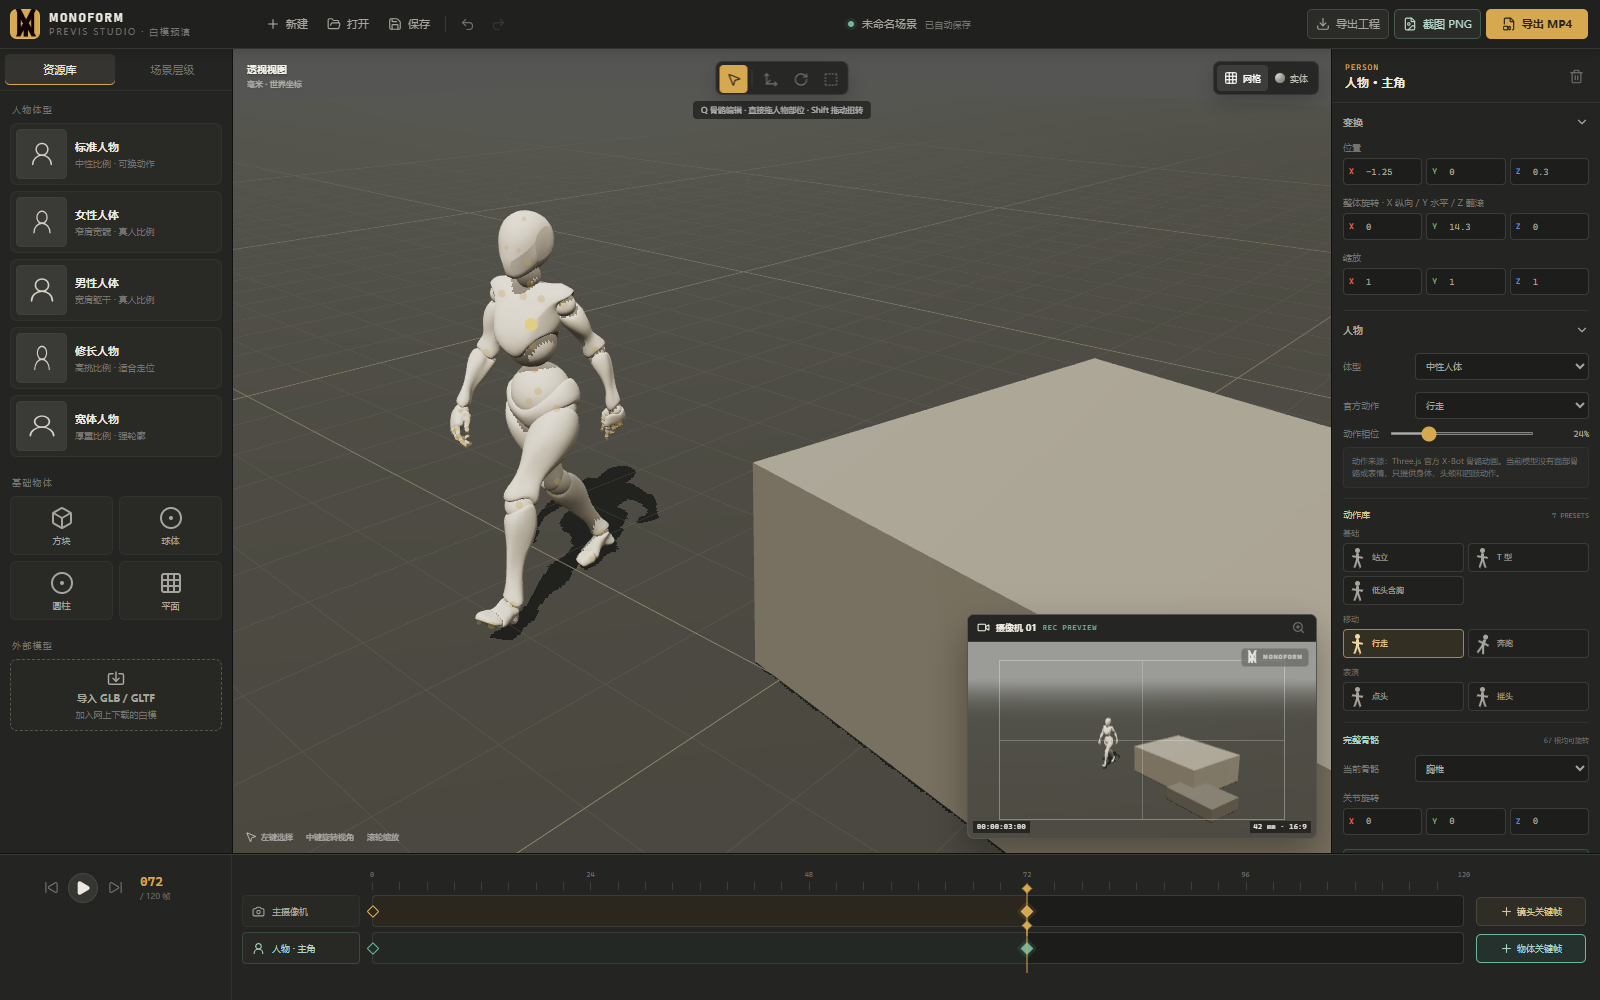
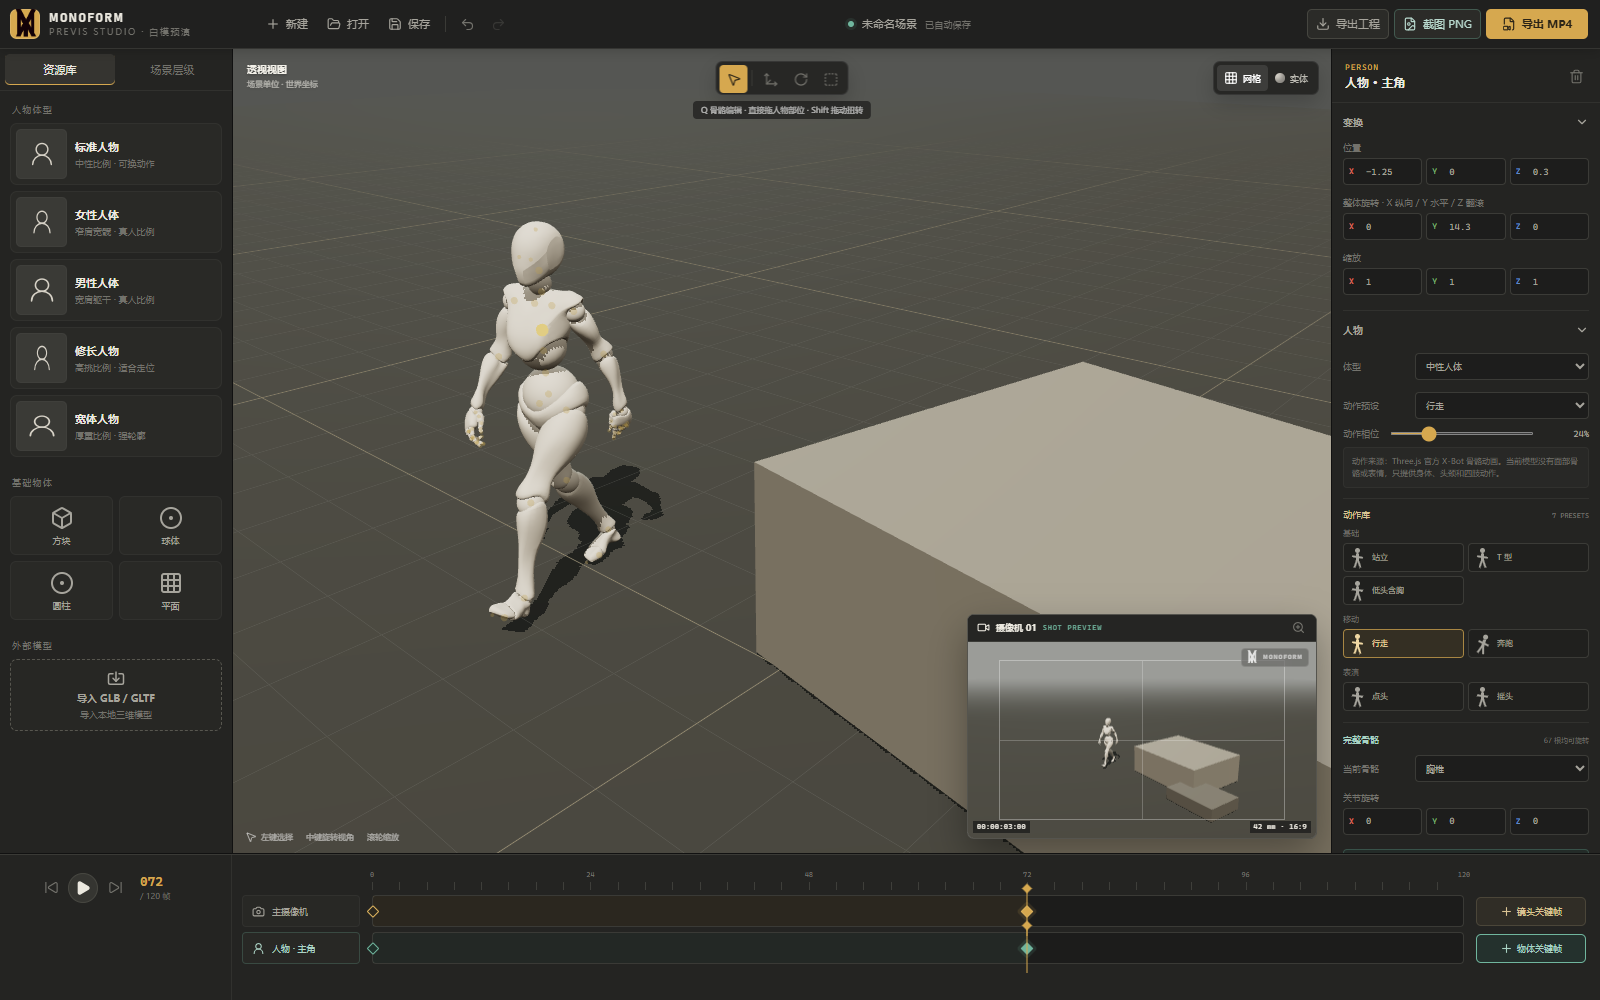
Polish user-facing copy and project workflow

diff --git a/src/App.jsx b/src/App.jsx
@@ -11,7 +11,8 @@ import { JOINT_DEFINITIONS, JOINT_GROUPS, RIG_PRESET_GROUPS, RIG_PRESET_OPTIONS,
 const FPS = 24
 const TOTAL_FRAMES = 120
 const CAMERA_ID = '__shot_camera__'
-const PROJECT_STORAGE_KEY = 'stageframe-project'
+const PROJECT_STORAGE_KEY = 'monoform-project'
+const LEGACY_PROJECT_STORAGE_KEY = 'stageframe-project'
 const PROJECT_VERSION = 7
 const BRAND_MARK_URL = `${import.meta.env.BASE_URL}branding/monoform-mark.png`
 const ASPECT_RATIOS = [
@@ -93,8 +94,12 @@ function normalizeObjectTracks(tracks = {}) {
 
 function readCachedProject() {
   try {
-    const data = JSON.parse(localStorage.getItem(PROJECT_STORAGE_KEY) || 'null')
+    const current = localStorage.getItem(PROJECT_STORAGE_KEY)
+    const legacy = current ? null : localStorage.getItem(LEGACY_PROJECT_STORAGE_KEY)
+    const serialized = current || legacy
+    const data = JSON.parse(serialized || 'null')
     if (!data || !Array.isArray(data.objects)) return null
+    if (!current && legacy) localStorage.setItem(PROJECT_STORAGE_KEY, legacy)
     const tracks = data.objectKeyframes || data.characterKeyframes || {}
     return { ...data, objects: data.objects.map(normalizePerson), objectKeyframes: normalizeObjectTracks(tracks) }
   } catch {
@@ -279,7 +284,7 @@ function LeftSidebar({ objects, selectedId, onSelect, onAddPerson, onAddPrimitiv
           </div>
           <div className="section-kicker section-gap">外部模型</div>
           <button className="import-drop" onClick={() => inputRef.current?.click()}>
-            <Import size={18} /><strong>导入 GLB / GLTF</strong><span>加入网上下载的白模</span>
+            <Import size={18} /><strong>导入 GLB / GLTF</strong><span>导入本地三维模型</span>
           </button>
           <input ref={inputRef} className="visually-hidden" type="file" accept=".glb,.gltf" onChange={onImport} />
         </div>
@@ -333,7 +338,7 @@ function Inspector({ selected, camera, selectedJoint, onSelectJoint, onUpdateObj
           <div className="inspector-section">
             <div className="section-title"><span>人物</span><ChevronDown size={14} /></div>
             <label className="select-field"><span>体型</span><select value={selected.bodyType} onChange={e => onUpdateObject({ bodyType: e.target.value })}><option value="standard">中性人体</option><option value="female">女性人体</option><option value="male">男性人体</option><option value="tall">修长人体</option><option value="broad">宽体人体</option></select></label>
-            <label className="select-field"><span>官方动作</span><select value={normalizePoseId(selected.pose)} onChange={e => applyPreset(e.target.value)}>{RIG_PRESET_OPTIONS.map(([value, label]) => <option key={value} value={value}>{label}</option>)}</select></label>
+            <label className="select-field"><span>动作预设</span><select value={normalizePoseId(selected.pose)} onChange={e => applyPreset(e.target.value)}>{RIG_PRESET_OPTIONS.map(([value, label]) => <option key={value} value={value}>{label}</option>)}</select></label>
             <label className="range-field pose-time-field"><span>动作相位</span><input type="range" min="0" max="1" step="0.01" value={Number.isFinite(selected.poseTime) ? selected.poseTime : presetPhase(selected.pose)} onChange={e => onUpdateObject({ poseTime: Number(e.target.value) })} /><output>{Math.round((Number.isFinite(selected.poseTime) ? selected.poseTime : presetPhase(selected.pose)) * 100)}%</output></label>
             <p className="pose-source-note">动作来源：Three.js 官方 X-Bot 骨骼动画。当前模型没有面部骨骼或表情，只提供身体、头颈和四肢动作。</p>
             <div className="pose-library">
@@ -721,18 +726,21 @@ export default function App() {
       return next
     })
   }
-  const saveProject = () => {
+  const saveProject = ({ download = false } = {}) => {
     const data = projectData({ objects, camera, keyframes, objectKeyframes: characterKeyframes })
     const serialized = JSON.stringify(data)
     let cached = true
     try { localStorage.setItem(PROJECT_STORAGE_KEY, serialized) } catch { cached = false }
-    const blob = new Blob([JSON.stringify(data, null, 2)], { type: 'application/json' })
-    const link = document.createElement('a')
-    link.href = URL.createObjectURL(blob)
-    link.download = 'monoform-project.json'
-    link.click()
-    URL.revokeObjectURL(link.href)
-    setToast(cached ? '工程已保存' : '工程已导出 · 深度图较大，未写入浏览器缓存')
+    if (download) {
+      const blob = new Blob([JSON.stringify(data, null, 2)], { type: 'application/json' })
+      const link = document.createElement('a')
+      link.href = URL.createObjectURL(blob)
+      link.download = 'monoform-project.json'
+      link.click()
+      URL.revokeObjectURL(link.href)
+    }
+    if (download) setToast(cached ? '工程 JSON 已导出' : '工程已导出，但浏览器自动保存空间不足')
+    else setToast(cached ? '工程已保存到浏览器' : '浏览器保存空间不足，请使用“导出工程”备份')
   }
   const handleCaptureImage = async () => {
     if (exporting || capturingImage) return
@@ -886,7 +894,7 @@ export default function App() {
         <nav className="top-actions">
           <button onClick={resetProject}><Plus size={14} /> 新建</button>
           <button onClick={() => loadRef.current?.click()}><FolderOpen size={14} /> 打开</button>
-          <button onClick={saveProject}><Save size={14} /> 保存</button>
+          <button onClick={() => saveProject()}><Save size={14} /> 保存</button>
           <input ref={loadRef} className="visually-hidden" type="file" accept=".json" onChange={loadProject} />
           <span className="top-divider" />
           <ToolButton icon={Undo2} label="撤销" shortcut="Ctrl+Z" onClick={undo} disabled={!historyRef.current.past.length} />
@@ -894,7 +902,7 @@ export default function App() {
         </nav>
         <div className="project-title"><i className={`status-dot ${saveStatus === '保存中…' ? '' : 'live'}`} /><span>未命名场景</span><small>{saveStatus}</small></div>
         <div className="export-actions">
-          <button className="project-export-button" onClick={saveProject} disabled={exporting || capturingImage}><Download size={14} /> 导出工程</button>
+          <button className="project-export-button" onClick={() => saveProject({ download: true })} disabled={exporting || capturingImage}><Download size={14} /> 导出工程</button>
           <button className="project-export-button capture-image-button" onClick={handleCaptureImage} disabled={exporting || capturingImage}><FileImage size={14} /> {capturingImage ? '截图中…' : '截图 PNG'}</button>
           <button className="export-button" onClick={handleExportMp4} disabled={exporting || capturingImage}><FileVideo2 size={14} /> {exporting ? `${exportProgress}%` : '导出 MP4'}</button>
         </div>
@@ -920,11 +928,11 @@ export default function App() {
             <button className={showGrid ? 'is-active' : ''} onClick={() => setShowGrid(value => !value)}><Grid3X3 size={14} /> 网格</button>
             <button><span className="solid-sphere" /> 实体</button>
           </div>
-          <div className="viewport-label"><strong>透视视图</strong><span>毫米 · 世界坐标</span></div>
+          <div className="viewport-label"><strong>透视视图</strong><span>场景单位 · 世界坐标</span></div>
           <MainViewport objects={animatedObjects} selectedId={selectedId} activeJoint={selectedJoint} onSelect={setSelectedId} onJointSelect={(objectId, jointId) => { setSelectedId(objectId); setSelectedJoint(jointId) }} transformMode={transformMode} onUpdateObject={updateObjectById} cameraData={displayCamera} onUpdateCamera={patch => setCamera(current => ({ ...current, ...patch }))} showGrid={showGrid} />
           <div className="navigation-hint"><span><MousePointer2 size={12} /> 左键选择</span><span>中键旋转视角</span><span>滚轮缩放</span></div>
           <div className="camera-monitor">
-            <div className="monitor-head"><div><Video size={13} /><strong>摄像机 01</strong><span>REC PREVIEW</span></div><button onClick={() => setSelectedId(CAMERA_ID)}><ZoomIn size={13} /></button></div>
+            <div className="monitor-head"><div><Video size={13} /><strong>摄像机 01</strong><span>SHOT PREVIEW</span></div><button onClick={() => setSelectedId(CAMERA_ID)}><ZoomIn size={13} /></button></div>
             <div className="monitor-frame">
               <div className={`monitor-canvas ${previewAspectClass}`} style={{ '--preview-aspect': previewAspect }}>
                 <CameraPreview objects={animatedObjects} cameraData={displayCamera} />
